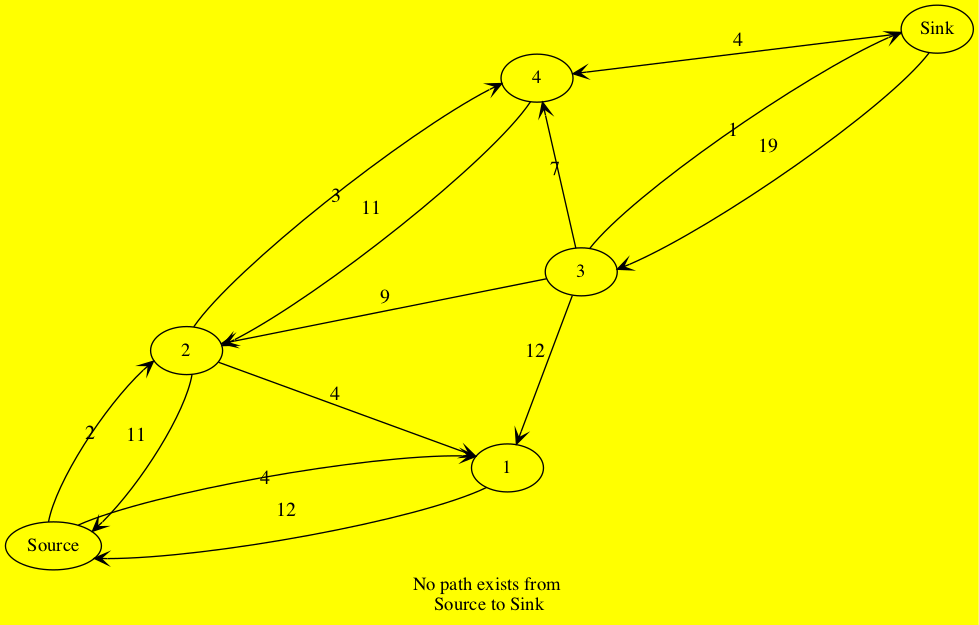
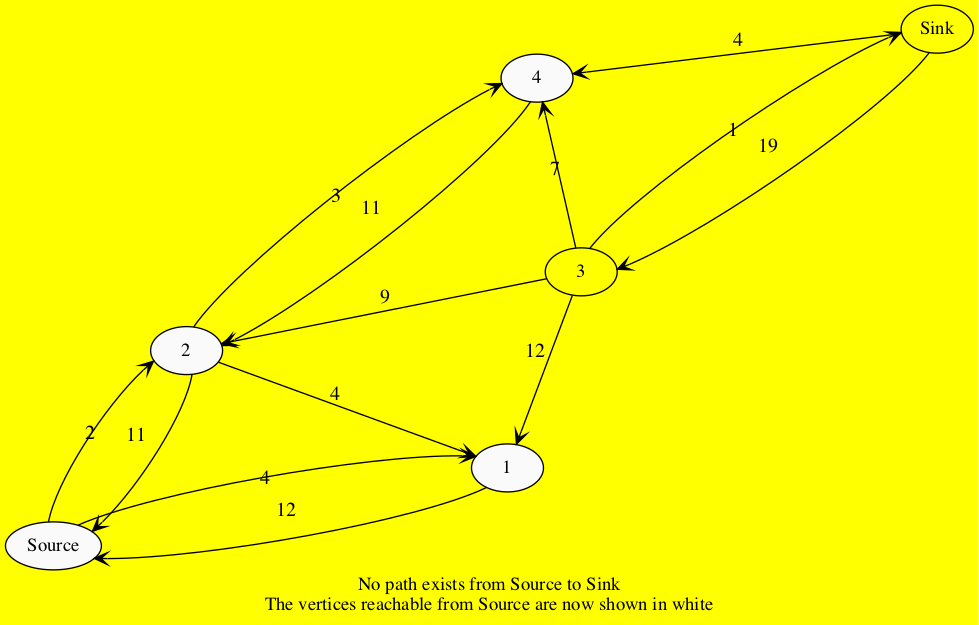
Vertices reachable from s in final res graph is now white

diff --git a/Edmond-Karp-Visualisation/Edmond_Karp_Residual.py b/Edmond-Karp-Visualisation/Edmond_Karp_Residual.py
@@ -6,12 +6,31 @@ def makeGraph(C, F, path, flow, s, t, rGraphName):
         stringg="Length of augmenting path = "+str(len(path))+"\nBottleneck Capacity = "+str(flow)
         graph = pydot.Dot("my_graph", graph_type="digraph", bgcolor="yellow", label=stringg, sep=3, nodesep=0.9)
     else:
-        graph = pydot.Dot("my_graph", graph_type="digraph", bgcolor="yellow", label="No path exists from \nSource to Sink", sep=3, nodesep=0.9)
+        graph = pydot.Dot("my_graph", graph_type="digraph", bgcolor="yellow", label="No path exists from Source to Sink.\nThe vertices reachable from Source are now shown in white", sep=3, nodesep=0.9)
 
+    reachable=[s]
+    if path is None or path == []:
+        queue = [s]
+        paths = {s:[]}
+        while queue: 
+            u = queue.pop(0)
+            for v in range(len(C)):
+                if(C[u][v]-F[u][v]>0) and v not in paths:
+                    reachable.append(v)
+                    paths[v] = paths[u]+[(u,v)]
+                    # if v == t:
+                    #     return paths[v]
+                    queue.append(v)    
+        print("vertices reachable from s :=",reachable)
     # Add nodes
     for i in range(n):
-        my_node = pydot.Node(str(i))
-        graph.add_node(my_node)
+        if (i in reachable) and (path is None or path == []):
+            my_node = pydot.Node(str(i),style = 'filled', fillcolor = '#fafafa')
+            graph.add_node(my_node)
+        else:
+            my_node = pydot.Node(str(i))
+            graph.add_node(my_node)
+
     graph.get_node(str(s))[0].set_label("Source")
     graph.get_node(str(t))[0].set_label("Sink")
 
